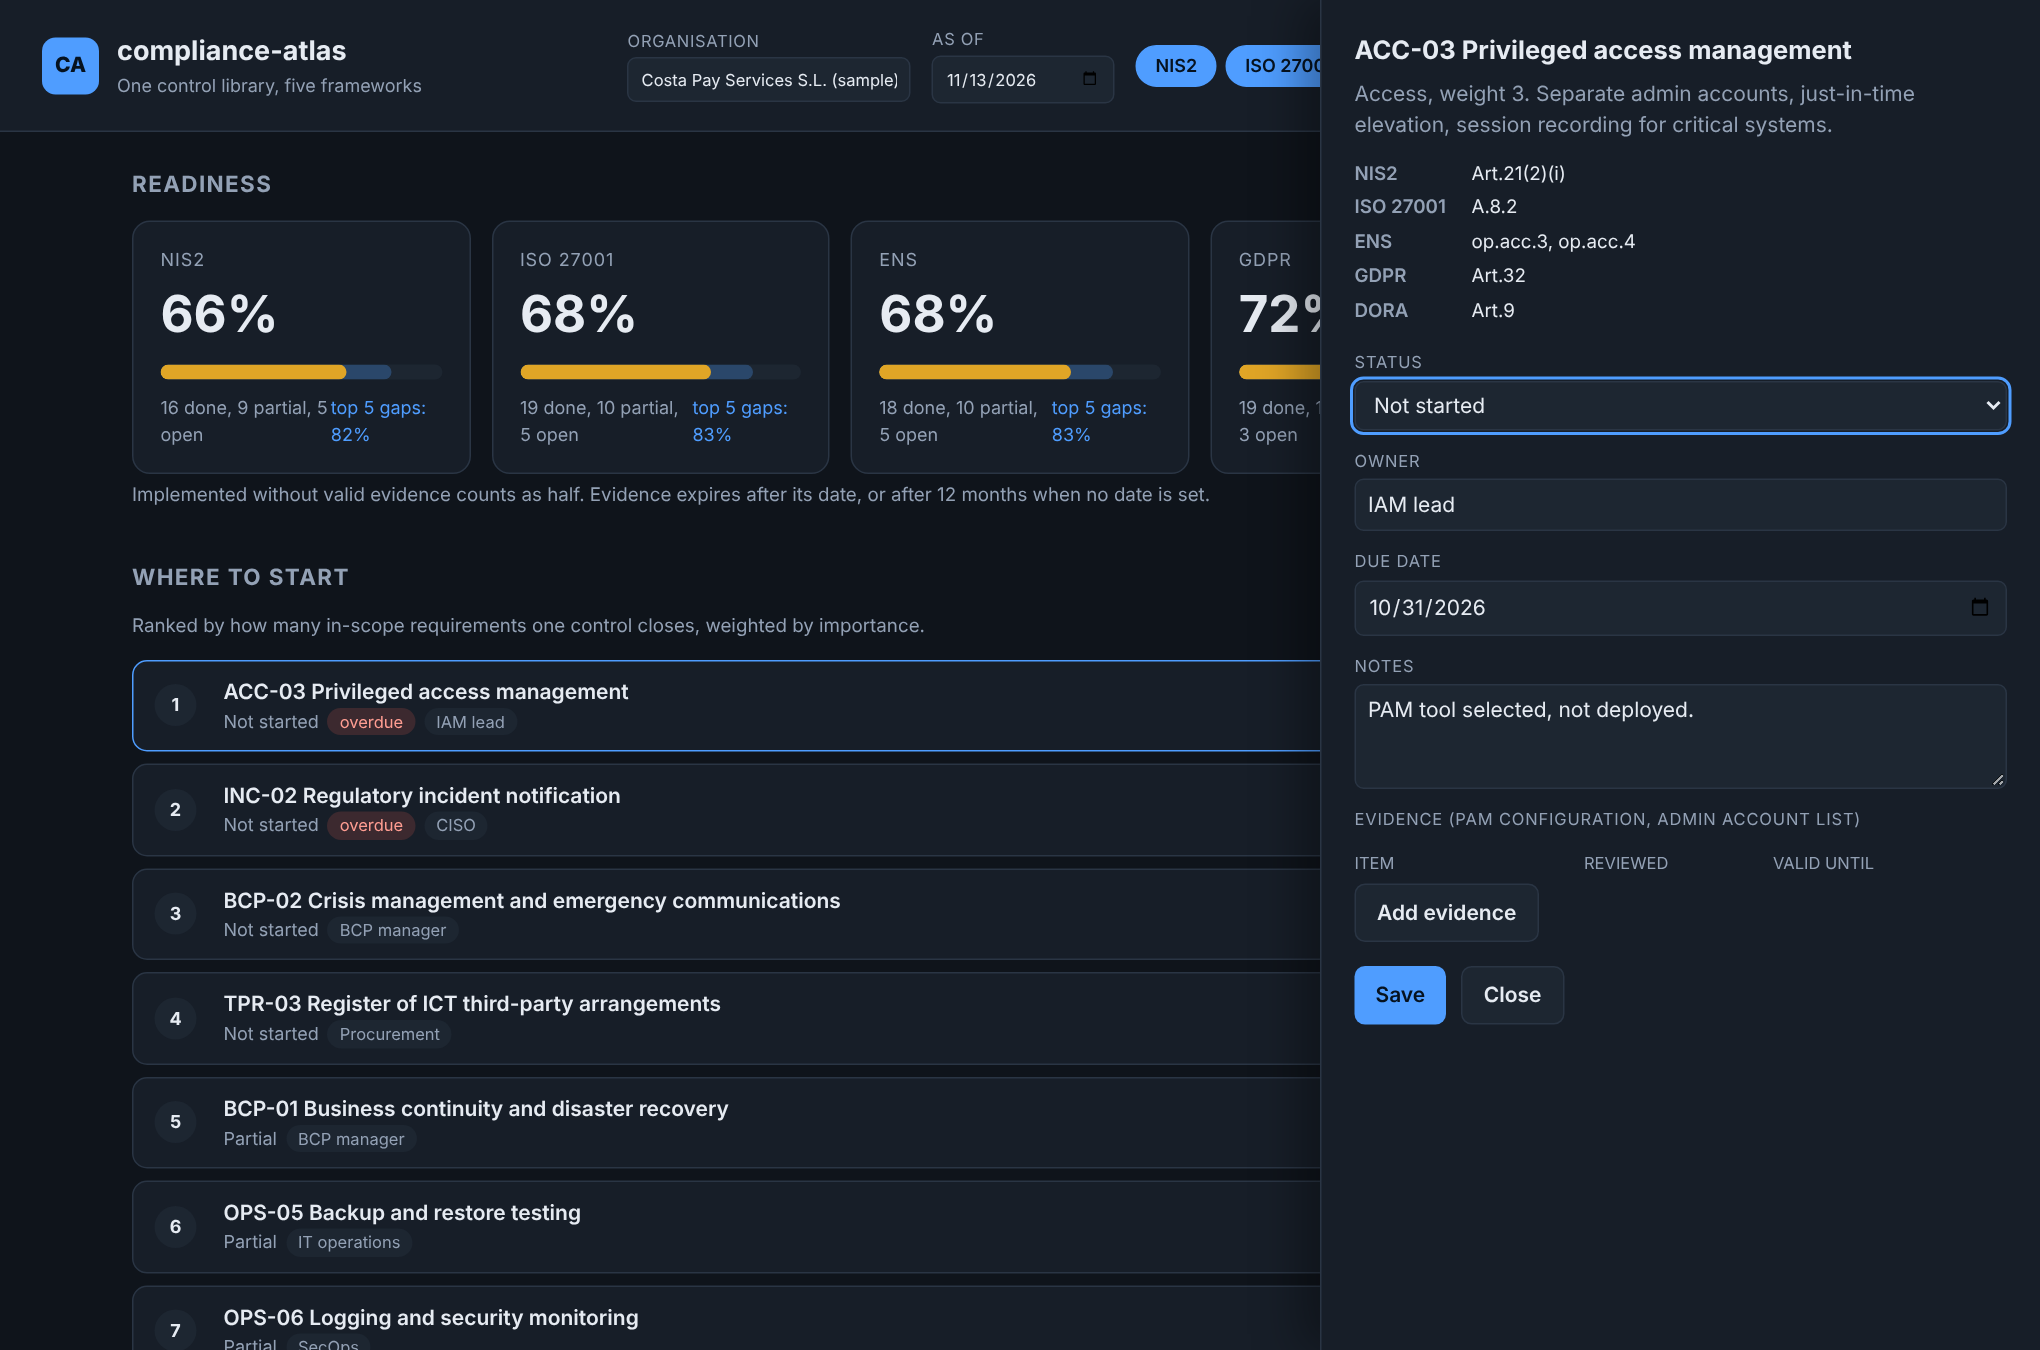
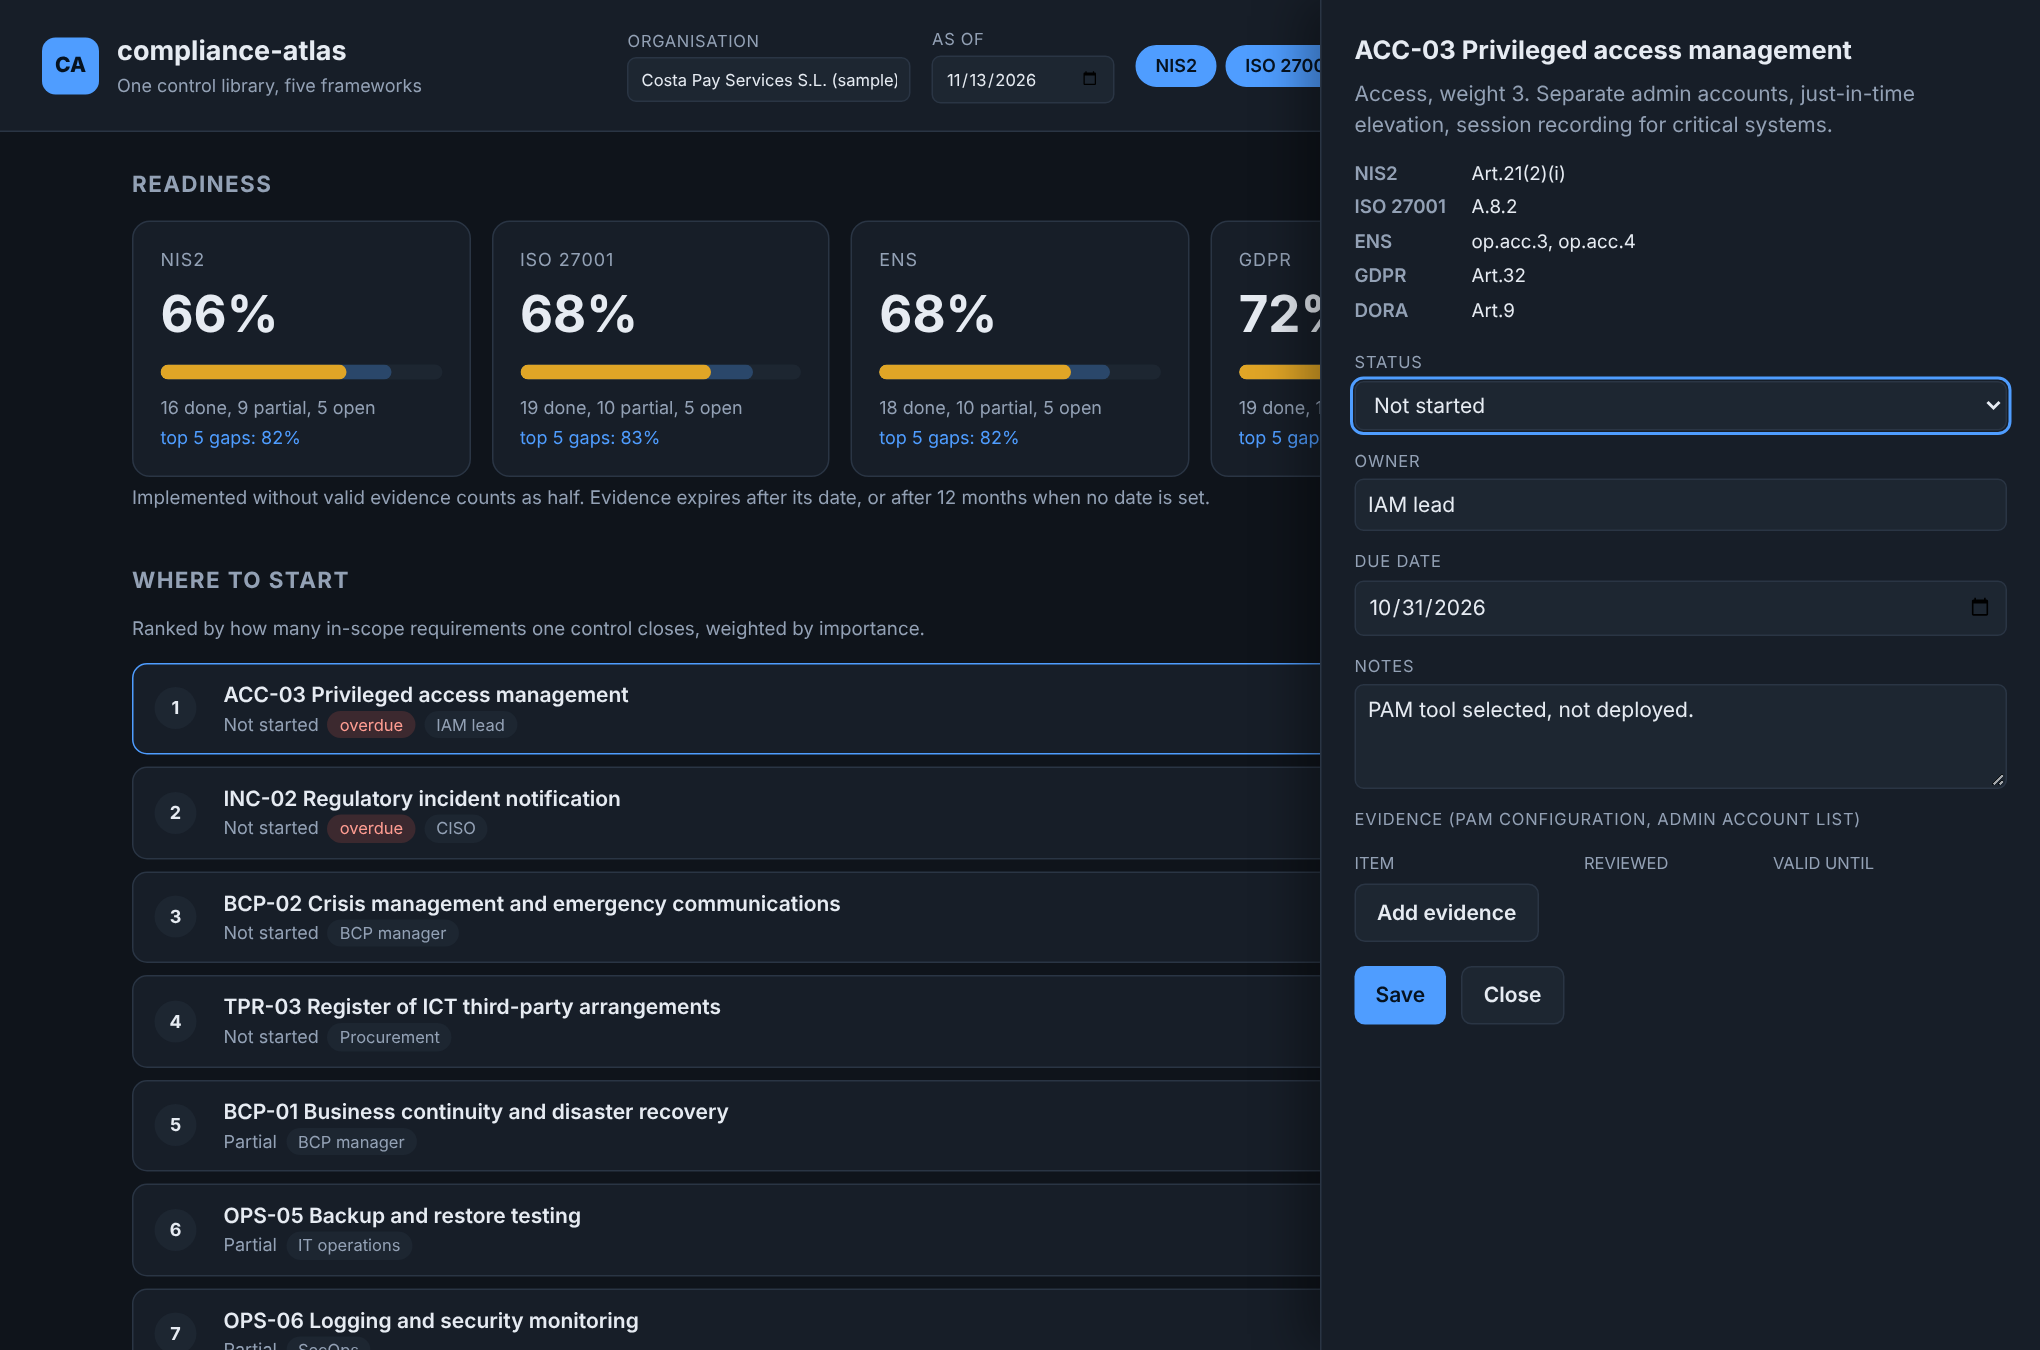
Show identical rounded percentages in UI and report, refresh screenshots
Claude-Session: https://claude.ai/code/session_01YPZuajtqhaMjg4pXbD3HzV

diff --git a/src/main/resources/public/app.js b/src/main/resources/public/app.js
@@ -46,7 +46,6 @@
     toast.timer = setTimeout(function () { t.hidden = true; }, 3200);
   }
 
-  function pct(r) { return Math.round(r * 100); }
   function level(r) { return r >= 0.75 ? "ok" : r >= 0.4 ? "mid" : "low"; }
   function scoreColor(s) { return s < 0 ? COLORS.na : s >= 1 ? COLORS.full : s > 0 ? COLORS.half : COLORS.zero; }
 
@@ -87,18 +86,18 @@
     state.summary.frameworks.forEach(function (f) {
       var track = h("div", { class: "track" });
       var ghost = h("div", { class: "fill ghost" });
-      ghost.style.width = pct(f.readinessIfTop5Closed) + "%";
+      ghost.style.width = f.pctIfTop5Closed + "%";
       var fill = h("div", { class: "fill " + level(f.readiness) });
-      fill.style.width = pct(f.readiness) + "%";
+      fill.style.width = f.pct + "%";
       track.appendChild(ghost);
       track.appendChild(fill);
       box.appendChild(h("div", { class: "card" },
         h("div", { class: "name", text: f.label }),
-        h("div", { class: "pct", text: pct(f.readiness) + "%" }),
+        h("div", { class: "pct", text: f.pct + "%" }),
         track,
         h("div", { class: "foot" },
           h("span", { text: f.implemented + " done, " + f.partial + " partial, " + f.notStarted + " open" }),
-          h("span", { class: "up", text: "top 5 gaps: " + pct(f.readinessIfTop5Closed) + "%" }))));
+          h("span", { class: "up", text: "top 5 gaps: " + f.pctIfTop5Closed + "%" }))));
     });
   }
 

diff --git a/src/main/java/dev/jvch/atlas/Reports.java b/src/main/java/dev/jvch/atlas/Reports.java
@@ -7,7 +7,9 @@ import java.util.Map;
 public final class Reports {
     private Reports() {}
 
-    public static String pct(double r) { return Math.round(r * 100) + "%"; }
+    public static int pctInt(double r) { return (int) Math.round(r * 100); }
+
+    public static String pct(double r) { return pctInt(r) + "%"; }
 
     public static String esc(String s) {
         StringBuilder b = new StringBuilder(s.length() + 8);
@@ -101,7 +103,7 @@ public final class Reports {
                 .append(".row{display:grid;grid-template-columns:120px 1fr 150px;gap:16px;align-items:center;margin:10px 0}.bar{background:#e6e9ef;border-radius:6px;height:14px;overflow:hidden}")
                 .append(".fill{height:100%}.ok{background:#2e9e6a}.mid{background:#e0a526}.low{background:#d2503f}table{border-collapse:collapse;width:100%;background:#fff}")
                 .append("th,td{text-align:left;padding:8px 10px;border-bottom:1px solid #e6e9ef;font-size:14px}th{background:#eef1f6}.tag{font-size:12px;padding:2px 8px;border-radius:10px;background:#eef1f6}")
-                .append(".bad{background:#fbe3df;color:#8a2417}.foot{color:#5b6677;font-size:13px;margin-top:32px}</style></head><body><main>");
+                .append(".bad{background:#fbe3df;color:#8a2417}.foot{color:#5b6677;font-size:13px;margin-top:32px}td:last-child{white-space:nowrap}</style></head><body><main>");
         b.append("<h1>Compliance readiness report</h1><div class=\"meta\">").append(esc(a.organisation)).append(" &middot; as of ")
                 .append(a.asOf).append(" &middot; overall ").append(pct(Scoring.overall(now))).append("</div>");
         b.append("<h2>Readiness by framework</h2><div class=\"card\">");

diff --git a/src/test/java/dev/jvch/atlas/AllTests.java b/src/test/java/dev/jvch/atlas/AllTests.java
@@ -198,6 +198,17 @@ public final class AllTests {
             for (String line : Reports.csv(cat, a).split("\n")) yes(!line.matches(".*,=.*"), "no raw formula cell: " + line);
         });
 
+        test("dashboard and report show the same rounded percentages", () -> {
+            Assessment a = Assessment.fromJson(Files.readString(Path.of("samples/costa-pay.json")), cat);
+            var sum = Scoring.summaryMap(cat, a);
+            @SuppressWarnings("unchecked") List<Object> fl = (List<Object>) sum.get("frameworks");
+            String md = Reports.markdown(cat, a);
+            for (Object o : fl) {
+                @SuppressWarnings("unchecked") Map<String, Object> f = (Map<String, Object>) o;
+                yes(md.contains(f.get("pct") + "%"), "report shows " + f.get("pct") + "% for " + f.get("label"));
+            }
+        });
+
         test("markdown report has table and disclaimer", () -> {
             Assessment a = Assessment.fromJson(Files.readString(Path.of("samples/costa-pay.json")), cat);
             String md = Reports.markdown(cat, a);

diff --git a/src/main/java/dev/jvch/atlas/Scoring.java b/src/main/java/dev/jvch/atlas/Scoring.java
@@ -140,6 +140,8 @@ public final class Scoring {
             m.put("unverified", s.unverified());
             m.put("readiness", round(s.readiness()));
             m.put("readinessIfTop5Closed", round(up.get(s.framework()).readiness()));
+            m.put("pct", Reports.pctInt(s.readiness()));
+            m.put("pctIfTop5Closed", Reports.pctInt(up.get(s.framework()).readiness()));
             fl.add(m);
         }
         out.put("frameworks", fl);

diff --git a/README.md b/README.md
@@ -15,7 +15,7 @@ Teams that answer to several frameworks usually track each one in its own spread
 Requires Java 17+ (no Maven, Gradle or other dependencies).
 
 ```bash
-./build.sh test                                   # javac + built-in test runner, 17 tests
+./build.sh test                                   # javac + built-in test runner, 18 tests
 java -cp out/main dev.jvch.atlas.Main serve samples/costa-pay.json   # web UI on http://127.0.0.1:8500
 ```
 
